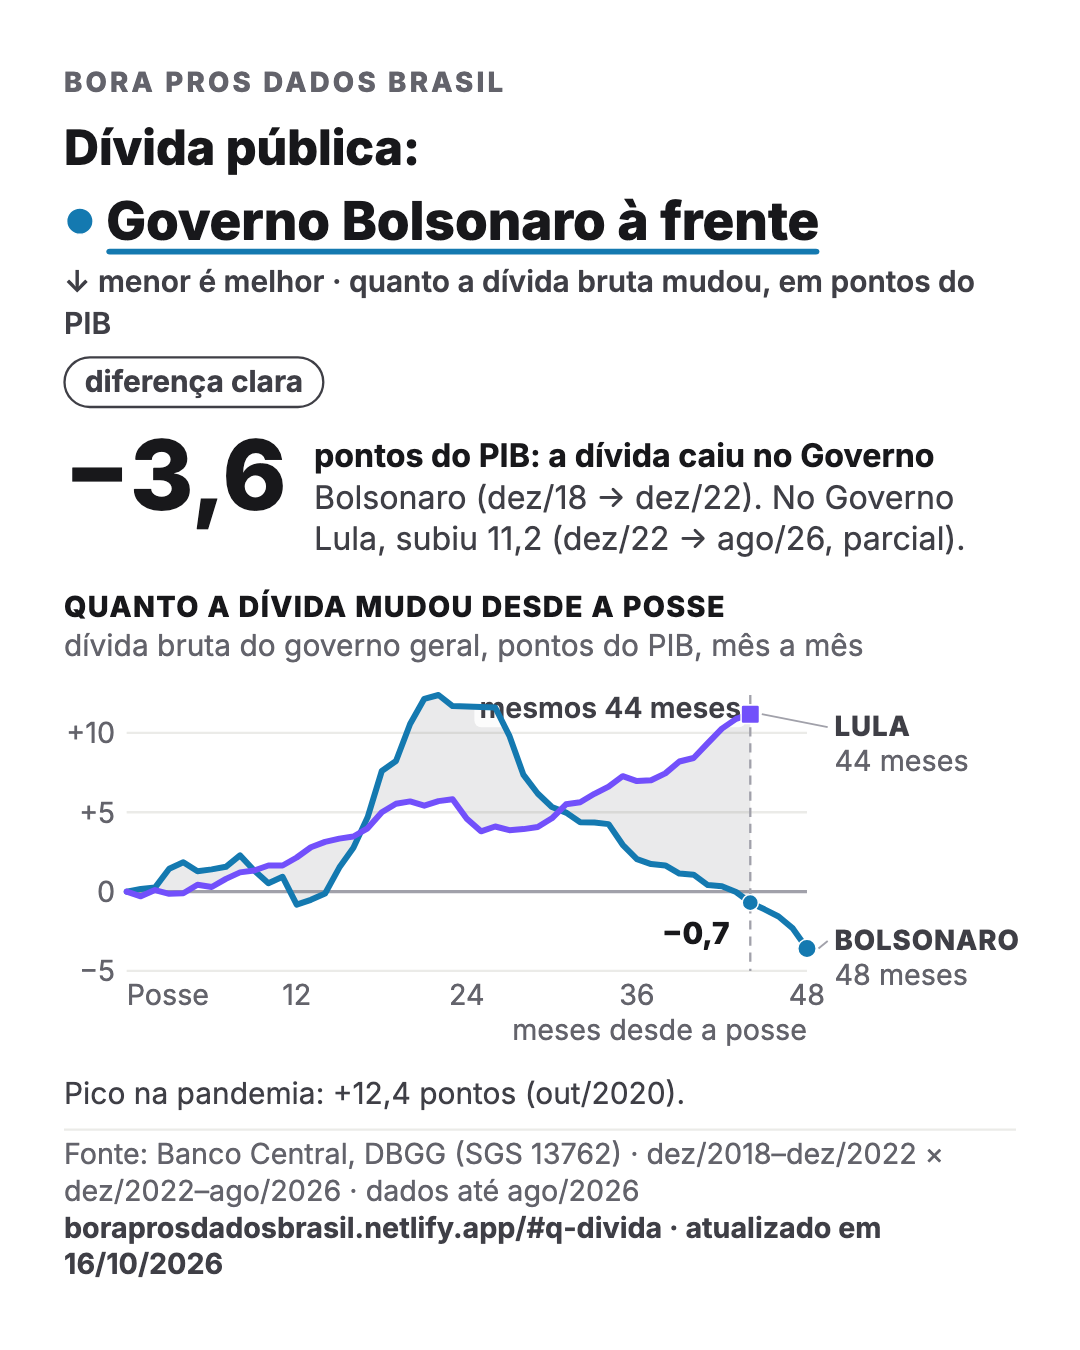
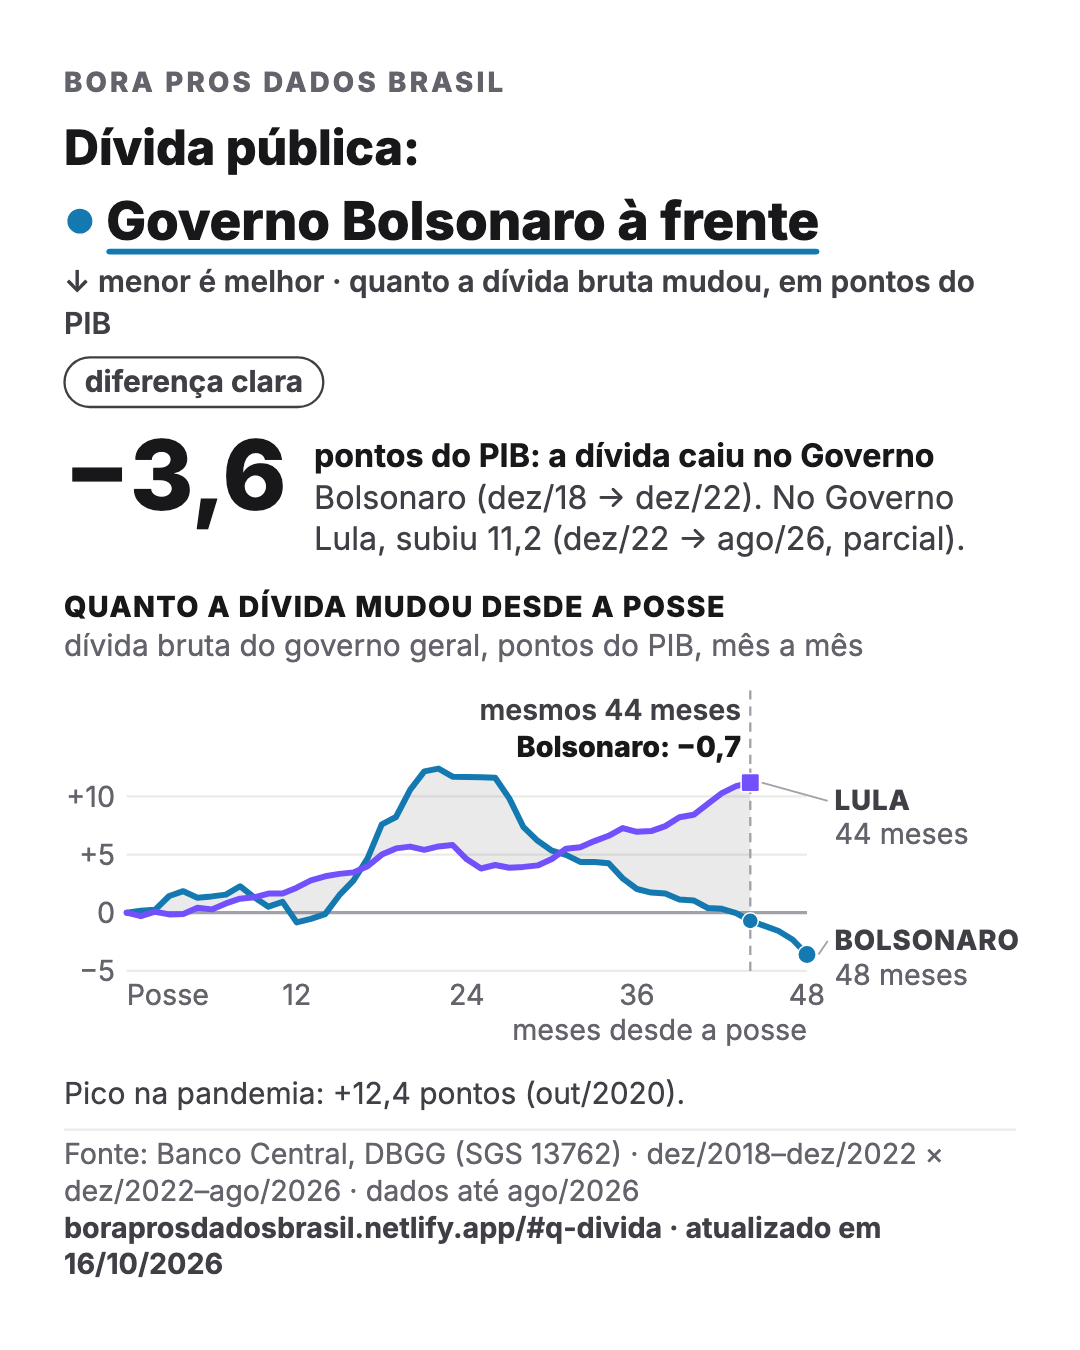
charts.js v0.3.8: rótulo 'mesmos 44 meses' (e valor no mesmo mês) numa faixa acima do gráfico; nota do gasto autocontida; PNGs do Instagram regenerados

Changed region(s): [[0.0917, 0.4978, 0.7639, 0.7156], [0.7639, 0.5289, 0.8861, 0.6222], [0.0611, 0.5289, 0.1222, 0.56]]

diff --git a/public/assets/js/charts.js b/public/assets/js/charts.js
@@ -970,7 +970,7 @@
     var axW = Math.max.apply(null, ticks.map(function (t) { return c.w(fy(t), 12.5); })) + c.z(6);
     var fimTxt = function (lado) { return [c.L[lado].curto.toUpperCase(), gr.rotuloFim === 'nome' ? null : f(gr[lado][gr[lado].length - 1]), gr.fim ? gr.fim[lado] : null]; };
     var endW = Math.max.apply(null, ORDEM.map(function (l) { var a = fimTxt(l); return Math.max(c.w(a[0], 12, 800), a[1] ? c.w(a[1], 17, 800) : 0, a[2] ? c.w(a[2], 12.5) : 0); })) + c.z(14);
-    var pl = x + axW, pr = x + w - endW, top = y + c.z(8), bot = y + h - c.z(gr.rotuloX ? 34 : 20);
+    var pl = x + axW, pr = x + w - endW, top = y + c.z(gr.marcaTexto ? (gr.marcaValor ? 40 : 24) : 8), bot = y + h - c.z(gr.rotuloX ? 34 : 20);
     var X = function (i) { return pl + i / n * (pr - pl); }, Y = function (v) { return bot - (v - lo) / (hi - lo) * (bot - top); };
     ticks.forEach(function (t) {
       el('line', { x1: pl, x2: pr, y1: Y(t), y2: Y(t), stroke: t === 0 ? C.axis : C.grid, 'stroke-width': c.z(t === 0 ? 1.4 : 1) }, c.g);
@@ -987,11 +987,14 @@
     el('path', { d: d + 'Z', fill: C.area }, c.g);
     if (gr.marcaMes != null) {
       el('line', { x1: X(gr.marcaMes), x2: X(gr.marcaMes), y1: top, y2: bot, stroke: C.axis, 'stroke-width': c.z(1), 'stroke-dasharray': c.z(4) + ' ' + c.z(3) }, c.g);
-      var mtTopo = gr.marcaValor && !gr.marcaValor.acima;
       if (gr.marcaTexto) {
-        var mty = mtTopo ? top + c.z(10) : bot - c.z(5), mtw = c.w(gr.marcaTexto, 12.5, 600);
-        el('rect', { x: X(gr.marcaMes) - c.z(6) - mtw, y: mty - c.z(12), width: mtw + c.z(4), height: c.z(16), rx: c.z(3), fill: C.fundo, opacity: 0.85 }, c.g);
-        c.t(X(gr.marcaMes) - c.z(4), mty, gr.marcaTexto, 12.5, 600, C.ink2, 'end');
+        // v0.3.8: rótulo da marca (e o valor no mesmo mês) numa faixa própria ACIMA da área do gráfico: nunca cruza linhas
+        var xm = X(gr.marcaMes), lnsM = [gr.marcaTexto];
+        if (gr.marcaValor) lnsM.push(c.L[gr.marcaValor.lado].curto + ': ' + f(gr[gr.marcaValor.lado][gr.marcaMes]));
+        var mtw = Math.max.apply(null, lnsM.map(function (t2, i2) { return c.w(t2, 12.5, i2 ? 800 : 600); }));
+        var anc = xm - mtw - c.z(4) < x ? 'start' : 'end', hRow = c.z(16 * lnsM.length);
+        el('line', { x1: xm, x2: xm, y1: top - hRow - c.z(2), y2: top, stroke: C.axis, 'stroke-width': c.z(1), 'stroke-dasharray': c.z(4) + ' ' + c.z(3) }, c.g);
+        lnsM.forEach(function (t2, i2) { c.t(anc === 'end' ? xm - c.z(4) : xm + c.z(4), top - hRow + c.z(11 + 16 * i2), t2, 12.5, i2 ? 800 : 600, i2 ? C.ink : C.ink2, anc); });
       }
     }
     ORDEM.forEach(function (lado) {
@@ -1000,12 +1003,9 @@
       el('path', { d: dd, fill: 'none', stroke: c.corLado(lado), 'stroke-width': c.z(2.6), 'stroke-linejoin': 'round', 'stroke-linecap': 'round' }, c.g);
     });
     // valor no "mesmo mês" (quando o outro lado ainda não terminou)
-    if (gr.marcaValor) {
-      var lv = gr.marcaValor.lado, iv = gr.marcaMes, vv = gr[lv][iv];
-      c.marca(lv, X(iv), Y(vv), 7);
-      var lab = f(vv), lw = c.w(lab, 13, 800);
-      el('rect', { x: X(iv) - lw - c.z(12), y: Y(vv) - c.z(gr.marcaValor.acima ? 22 : -6), width: lw + c.z(6), height: c.z(16), rx: c.z(3), fill: C.fundo, opacity: 0.9 }, c.g);
-      c.t(X(iv) - c.z(9), Y(vv) - c.z(gr.marcaValor.acima ? 9 : -18), lab, 13, 800, C.ink, 'end');
+    if (gr.marcaValor) {   // o ponto no "mesmo mês"; o valor vai escrito na faixa acima do gráfico
+      var lv = gr.marcaValor.lado, iv = gr.marcaMes;
+      c.marca(lv, X(iv), Y(gr[lv][iv]), 7);
     }
     var fins = ORDEM.map(function (lado) { var v = gr[lado], j = v.length - 1; c.marca(lado, X(j), Y(v[j]), 8); return { lado: lado, x: X(j), y: Y(v[j]) }; });
     fins.sort(function (a, b) { return a.y - b.y; });
@@ -1831,6 +1831,6 @@
     promessas: promessas, resumo: resumo, card: card, montarCard: montarCard, carrossel: carrossel, cardPNG: cardPNG, cardSintese: cardSintese, cardSelecao: cardSelecao,
     carregarFonte: function () { return Promise.all(['400', '600', '700', '800'].map(function (w) { return document.fonts.load(w + ' 20px InterVar'); })); },
     paraPNG: paraPNG, redesenhar: function () { redesenhar(true); redesenharCards(true); },
-    TEMAS: TEMAS, FORMATOS: FORMATOS, STATUS: STATUS, urlFonte: '/assets/fonts/inter-latin-var.woff2', versao: '0.3.7'
+    TEMAS: TEMAS, FORMATOS: FORMATOS, STATUS: STATUS, urlFonte: '/assets/fonts/inter-latin-var.woff2', versao: '0.3.8'
   };
 })(typeof window !== 'undefined' ? window : this);

diff --git a/public/assets/js/cards-home.js b/public/assets/js/cards-home.js
@@ -54,7 +54,7 @@ var SERIES = {"origem": "Cálculos sobre public/dados (BCB SGS 433, 13762, 24369
         grupos: [ { rotulo: '1º ano', b: { rot: '2019', v: 2.46 }, l: { rot: '2023', v: 2.91 } }, { rotulo: '2º ano', b: { rot: '2020', v: 3.06 }, l: { rot: '2024', v: 2.97 } },
                   { rotulo: '3º ano', b: { rot: '2021', v: 2.47 }, l: { rot: '2025', v: 3.18 } }, { rotulo: '4º ano', b: { rot: '2022', v: 2.68 }, l: { rot: '2026', v: null, vazio: 'em curso' } } ] },
       mudaria: 'em % do PIB, 25,0% × 24,5% (inverte)',
-      nota: 'Estimativa: empenhado da União menos juros e amortização. Precatórios: ver o card ao lado.',
+      nota: 'Estimativa: empenhado da União menos juros e amortização. Precatórios: R$ 92,4 bi pagos em dez/2023 (60,2 atrasados + 32,3 antecipados); sem eles, +5,0% em 2023.',
       fonte: 'Tesouro/SICONFI (RREO), corrigido pelo IPCA', periodo: 'R$ de dez/2025', dados: '2025' }),
 
     card({ id: 'q-precatorios', titulo: 'Precatórios: o que muda na conta do gasto', criterio: null, criterioTexto: 'nuance do gasto, sem placar',
